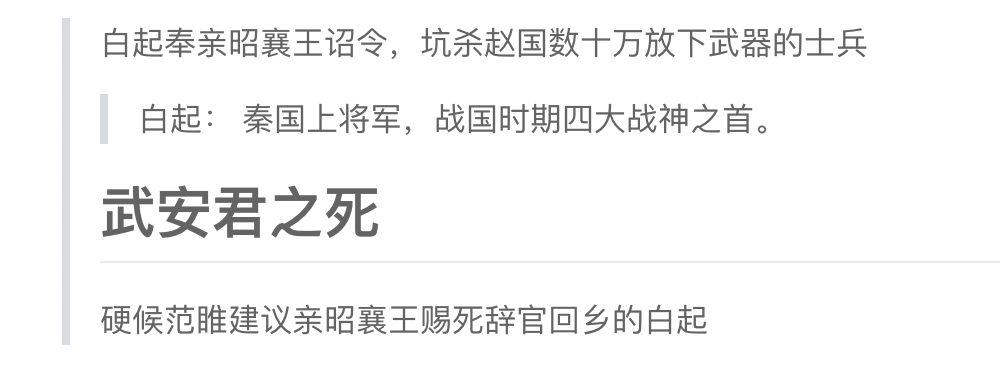
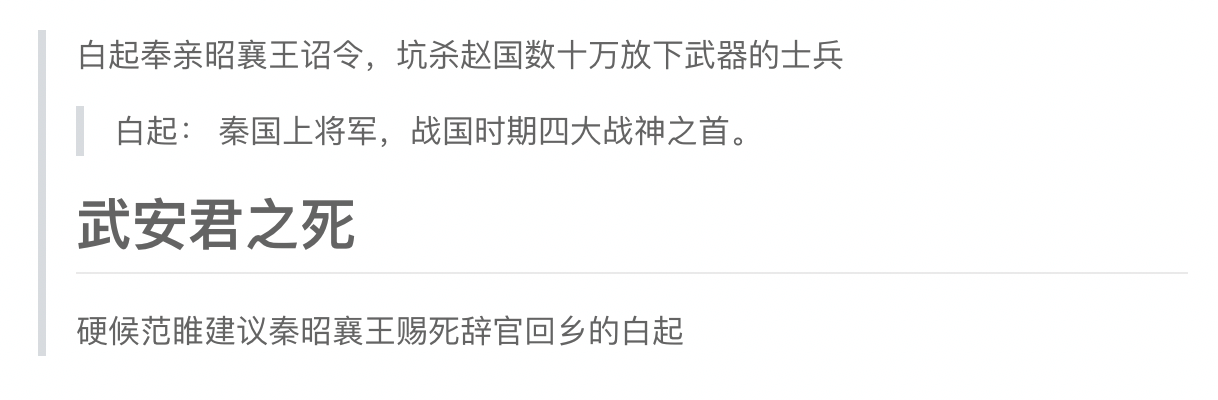
Site updated: 2019-03-15 22:58:20

Changed region(s): [[0.031, 0.0312, 0.868, 0.9062]]

diff --git a/2019/03/13/你应该知道的markdown语法/index.html b/2019/03/13/你应该知道的markdown语法/index.html
@@ -100,7 +100,7 @@
           <!-- Date -->
           <span class="date-time info">On
             <span class="date">2019-03-13</span>
-            <span class="time">21:41:19</span>
+            <span class="time">22:58:17</span>
           </span>
           
           <!--  Categories  -->
@@ -125,10 +125,11 @@
           <p>关于 markdown 常用的一些语法，方便我们以 markdown 的方式记录生活~</p>
 <a id="more"></a>
 <p>你还在用word写笔记、心得体会、说明文档之类的东东吗？是不是还在为word的排版而烦恼? ^_^<br>快来试试,代码圈最风靡的说明文档编写姿势吧，markdown 让你在了解几分钟语法的情况,专注于内容的输出。下面我们一起来看一看这些经常用到的语法~</p>
+<!--  -->
 <h2 id="标题"><a href="#标题" class="headerlink" title="标题"></a>标题</h2><figure class="highlight markdown"><table><tr><td class="gutter"><pre><span class="line">1</span><br><span class="line">2</span><br></pre></td><td class="code"><pre><span class="line"><span class="section"># 大秦帝国</span></span><br><span class="line"><span class="section">## 长平杀降</span></span><br></pre></td></tr></table></figure>
 <p>标题总共有六级</p>
 <p>效果：<br><img src="/2019/03/13/你应该知道的markdown语法/标题.png" title="标题效果"></p>
-<h2 id="引用"><a href="#引用" class="headerlink" title="引用"></a>引用</h2><figure class="highlight markdown"><table><tr><td class="gutter"><pre><span class="line">1</span><br><span class="line">2</span><br><span class="line">3</span><br><span class="line">4</span><br><span class="line">5</span><br><span class="line">6</span><br><span class="line">7</span><br></pre></td><td class="code"><pre><span class="line"><span class="quote">&gt; 白起奉亲昭襄王诏令，坑杀赵国数十万放下武器的士兵</span></span><br><span class="line">&gt;</span><br><span class="line"><span class="quote">&gt; &gt; 白起： 秦国上将军，战国时期四大战神之首。</span></span><br><span class="line">&gt;</span><br><span class="line"><span class="quote">&gt; ## 武安君之死</span></span><br><span class="line">&gt;</span><br><span class="line"><span class="quote">&gt; 硬候范睢建议亲昭襄王赐死辞官回乡的白起</span></span><br></pre></td></tr></table></figure>
+<h2 id="引用"><a href="#引用" class="headerlink" title="引用"></a>引用</h2><figure class="highlight markdown"><table><tr><td class="gutter"><pre><span class="line">1</span><br><span class="line">2</span><br><span class="line">3</span><br><span class="line">4</span><br><span class="line">5</span><br><span class="line">6</span><br><span class="line">7</span><br></pre></td><td class="code"><pre><span class="line"><span class="quote">&gt; 白起奉亲昭襄王诏令，坑杀赵国数十万放下武器的士兵</span></span><br><span class="line">&gt;</span><br><span class="line"><span class="quote">&gt; &gt; 白起： 秦国上将军，战国时期四大战神之首。</span></span><br><span class="line">&gt;</span><br><span class="line"><span class="quote">&gt; ## 武安君之死</span></span><br><span class="line">&gt;</span><br><span class="line"><span class="quote">&gt; 硬候范睢建议秦昭襄王赐死辞官回乡的白起</span></span><br></pre></td></tr></table></figure>
 <p>效果：<br><img src="/2019/03/13/你应该知道的markdown语法/引用.png" title="引用效果"><br>对于引用可以在内部嵌套 markdown 的语法</p>
 <h2 id="列表"><a href="#列表" class="headerlink" title="列表"></a>列表</h2><h3 id="无序列表"><a href="#无序列表" class="headerlink" title="无序列表"></a>无序列表</h3><figure class="highlight markdown"><table><tr><td class="gutter"><pre><span class="line">1</span><br><span class="line">2</span><br><span class="line">3</span><br><span class="line">4</span><br><span class="line">5</span><br><span class="line">6</span><br></pre></td><td class="code"><pre><span class="line">战国名士</span><br><span class="line"></span><br><span class="line"><span class="bullet">- </span>苏秦</span><br><span class="line"><span class="bullet">- </span>张仪</span><br><span class="line"><span class="bullet">- </span>公孙衍</span><br><span class="line"><span class="bullet">- </span>孟尝君</span><br></pre></td></tr></table></figure>
 <p>效果：<br><img src="/2019/03/13/你应该知道的markdown语法/无序列表.png" title="无序列表效果"></p>
